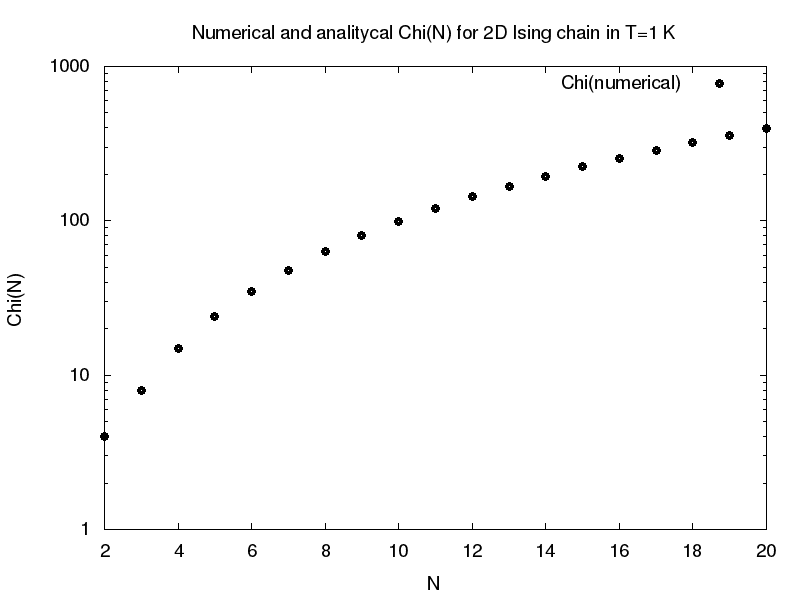
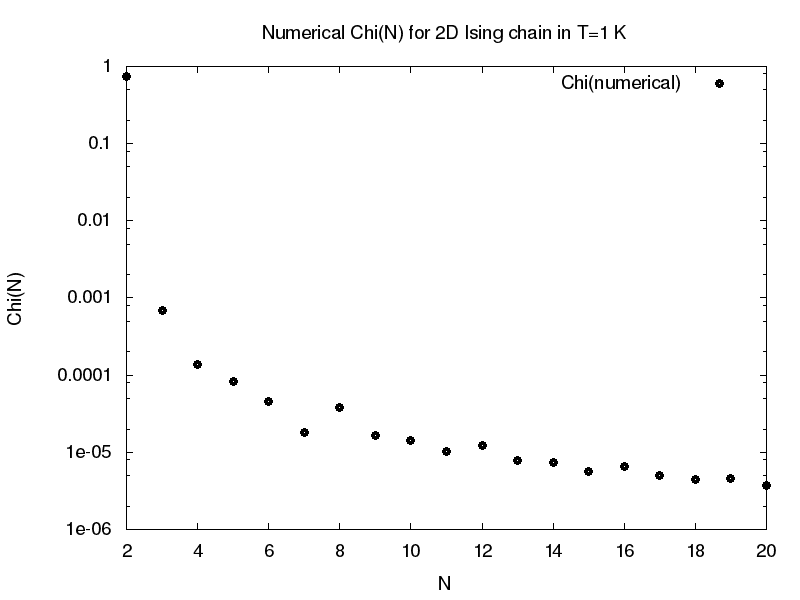
Fixed problem with calculation of Chi

diff --git a/IsingModelSimulations5_2/Tests/IsingTestChi2D.h b/IsingModelSimulations5_2/Tests/IsingTestChi2D.h
@@ -38,11 +38,11 @@ class IsingTestChi2D : public IsingTest {
         cout << " Running test..." << endl;    
             
         //SIMULATION INPUT DATA
-        int chainLength      = 5;        
+        int chainLength      = 10;        
         double magneticField = 0.0;
-        int therm_t          = 100;   //thermalization time
-        int measure_f        = 1;     //measure frequency
-        int prod_t           = 1000;  //productiontime
+        int therm_t          = 1000;   //thermalization time
+        int measure_f        = 10;     //measure frequency
+        int prod_t           = 10000;  //productiontime
         int maxGdist         = 10;     //domain of correlation function extends from 0 to maxGdist-1
         int maxTsep          = 2;
         double initState     = 0.7;    //values between 0.5 and 1.0
@@ -60,7 +60,7 @@ class IsingTestChi2D : public IsingTest {
         cout << "----------------------------------------------------" << endl;
         
         
-        for( double temperature = 0.3 ; temperature < 2.0 ; temperature += 0.1  ){         
+        for( double temperature = 0.3 ; temperature < 3.5 ; temperature += 0.1  ){         
         //CREATION AND INITIALIZATION OF THE INSTANCE OF ISING CLASS
         Ising2D chain2D(chainLength, temperature, magneticField, initState, maxGdist, maxTsep);
         //CALL TO THE ISING CLASS MEMBER FUNCTION PERFORMING SIMULATION
@@ -91,6 +91,7 @@ class IsingTestChi2D : public IsingTest {
         Ising2D chain2D(n, temperature, magneticField, initState, maxGdist, maxTsep);
         //CALL TO THE ISING CLASS MEMBER FUNCTION PERFORMING SIMULATION
         chain2D.MC_simulation(therm_t, prod_t, measure_f, METHOD_METROPOLIS);
+        
                 
         double chi      = chain2D.Chi(gettotalFname().c_str());
         //double chi_anal = exp(2./temperature)/temperature;

diff --git a/IsingModelSimulations5_2/IsingMain5_2.cpp b/IsingModelSimulations5_2/IsingMain5_2.cpp
@@ -70,7 +70,7 @@ int main(int argc, char** argv) {
      IsingTestChi2D isingTestChi2D; 
     //IsingTestError2D isingTestError2D;
     // IsingTestCC2D isingTestCC2D;   //  Ising2D test of CC in function of T for different lattices
-    // IsingTestM2D isingTestM2D;     //  Ising2D test of M in function of T for different lattices        
+     IsingTestM2D isingTestM2D;     //  Ising2D test of M in function of T for different lattices        
     //  IsingTestExact2D isingTestExact2D; // Ising2D test which calculates the exacts values of Cv for  small lattices
 
     // IsingTestE1D isingTestE1D;

diff --git a/IsingModelSimulations5_2/Ising5_2.h b/IsingModelSimulations5_2/Ising5_2.h
@@ -86,8 +86,8 @@ public:
 
     
     //ZERO FIELD SUSCEPTIBILITY
-    double Chi(string totalFname);         //magnetic susceptibility calculated using order parameter fluctuation method
-    double Chi( vector<vector<short> > SS );
+    virtual double Chi(string totalFname);         //magnetic susceptibility calculated using order parameter fluctuation method
+    virtual double Chi( vector<vector<short> > SS );
     
     //SPECIFIC HEAT
     double CC();          //specific heat measured using energy fluctuation method calclutated from simulation

diff --git a/IsingModelSimulations5_2/Ising5_2.cpp b/IsingModelSimulations5_2/Ising5_2.cpp
@@ -402,14 +402,14 @@ double Ising::Chi( vector<vector<short> > SS ) {
         //calculation of magnetisation M
         for(int i=0;i<N;i++){
             M_temp+=SS[j][i];
-        }
+        }        
         //calculation of <M> and <M^2>
         aM+=M_temp;
         aM2+=M_temp*M_temp;
     }
     //normalization by number of measures and sites
     aM=aM/t_steps/N; 
-    aM2=aM2/t_steps/N;
+    aM2=aM2/t_steps/N/N;
     
     return (aM2-aM*aM)/T; //Chi
 }

diff --git a/IsingModelSimulations5_2/Tests/IsingTestChi.h b/IsingModelSimulations5_2/Tests/IsingTestChi.h
@@ -59,7 +59,7 @@ class IsingTestChi : public IsingTest {
         chain.MC_simulation(therm_t, prod_t, measure_f);
                 
         double chi      = chain.Chi(gettotalFname().c_str());
-        double chi_anal = exp(2./temperature)/temperature;
+        double chi_anal = exp(2./temperature)/temperature/chain.N;
         double error    = chain.ERROR(gettotalFname().c_str(), ERROR_CHI);
 
         // saving data to file

diff --git a/IsingModelSimulations5_2/Tests/IsingTestM2D.h b/IsingModelSimulations5_2/Tests/IsingTestM2D.h
@@ -80,7 +80,7 @@ class IsingTestM2D : public IsingTest {
         for(unsigned int t = 0 ; t < dataT.size() ; t++ ){
              data_out << std::scientific << dataT[t] << "\t";   
              for(int i = 0; i < 4 ; i++){
-                 data_out << fabs(dataNxN[i][t]) << "\t";
+                 data_out << fabs(dataNxN[i][t]) << "\t" ;
              }
              data_out << endl;
         }
